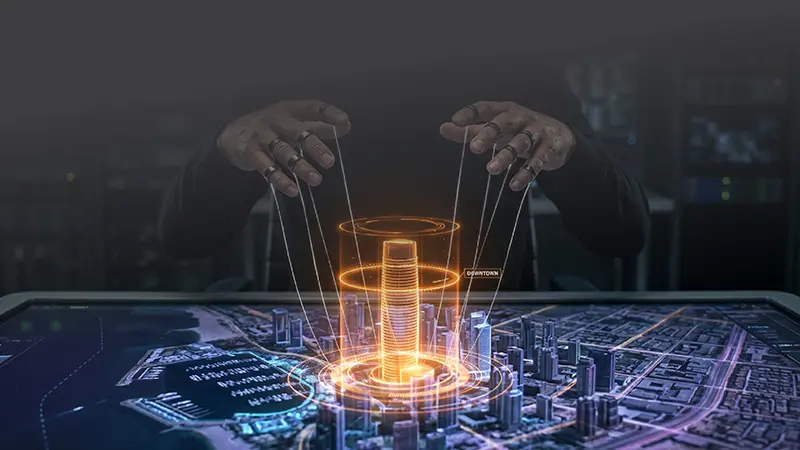
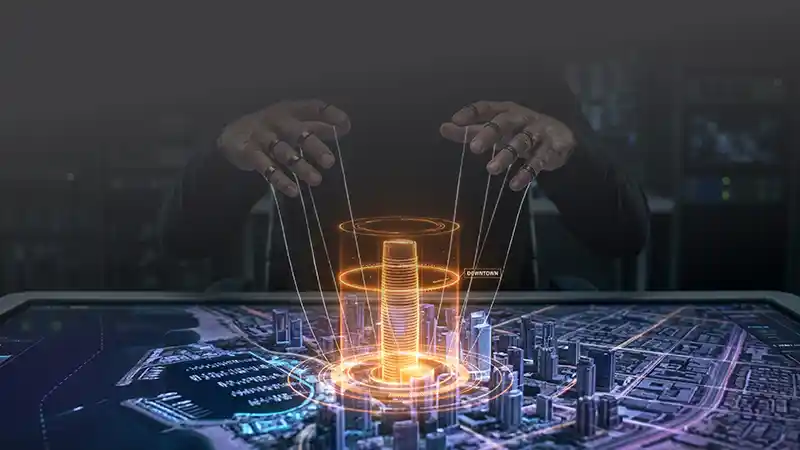
Critical CSS inlined, FA subset local file (1.5KB vs 18.3KB), styles.css async load, hero decoding=async

diff --git a/index.html b/index.html
@@ -5,26 +5,71 @@
     <meta name="viewport" content="width=device-width, initial-scale=1.0">
     <title>كورس المونتاج العقاري | أكاديمية مراسم</title>
     <meta name="description" content="تعلم فن إنتاج الفيديوهات العقارية الاحترافية من الصفر حتى الاحتراف مع أكاديمية مراسم. كورس شامل في المونتاج العقاري باستخدام After Effects و Premiere Pro.">
-    <!-- DNS Prefetch & Preconnect for external resources -->
+    <!-- Preconnect for font origins -->
     <link rel="preconnect" href="https://fonts.googleapis.com">
     <link rel="preconnect" href="https://fonts.gstatic.com" crossorigin>
-    <link rel="preconnect" href="https://cdnjs.cloudflare.com" crossorigin>
     <link rel="dns-prefetch" href="https://connect.facebook.net">
     <link rel="dns-prefetch" href="https://player.mediadelivery.net">
-    
-    <!-- Cairo Font: async load to avoid render-blocking -->
+    <link rel="dns-prefetch" href="https://cdnjs.cloudflare.com">
+
+    <!-- Preload hero images for LCP -->
+    <link rel="preload" as="image" href="assets/hero-bg.webp" type="image/webp" media="(min-width: 768px)" fetchpriority="high">
+    <link rel="preload" as="image" href="assets/mobile.webp" type="image/webp" media="(max-width: 767px)" fetchpriority="high">
+
+    <!-- Critical CSS: inlined to eliminate render-blocking -->
+    <style>
+    :root{--black-royal:#0a0a0a;--black-rich:#111111;--black-soft:#1a1a1a;--charcoal:#2a2a2a;--charcoal-light:#3a3a3a;--gray-dark:#4a4a4a;--gray:#6a6a6a;--gray-light:#8a8a8a;--gold:#c9a227;--gold-light:#dbb84d;--gold-dark:#a68520;--white:#ffffff;--white-off:#f5f5f5;--danger:#8b0000;--whatsapp:#25d366;--gradient-gold:linear-gradient(135deg,var(--gold) 0%,var(--gold-light) 50%,var(--gold) 100%);--gradient-dark:linear-gradient(180deg,var(--black-royal) 0%,var(--black-rich) 100%);--shadow-sm:0 2px 10px rgba(0,0,0,.3);--shadow-md:0 8px 30px rgba(0,0,0,.4);--shadow-lg:0 20px 60px rgba(0,0,0,.5);--shadow-gold:0 0 40px rgba(201,162,39,.3)}
+    *{margin:0;padding:0;box-sizing:border-box}html{scroll-behavior:smooth}
+    body{font-family:'Cairo',sans-serif;background:var(--black-royal);color:var(--white);line-height:1.8;overflow-x:hidden}
+    .container{max-width:1200px;margin:0 auto;padding:0 24px}
+    .whatsapp-float{position:fixed;bottom:30px;left:30px;background:var(--whatsapp);color:#fff;width:60px;height:60px;border-radius:50%;display:flex;align-items:center;justify-content:center;font-size:28px;box-shadow:0 4px 20px rgba(37,211,102,.4);z-index:1000;text-decoration:none;transition:all .3s ease}
+    .whatsapp-float:hover{transform:scale(1.1);box-shadow:0 6px 30px rgba(37,211,102,.6);width:auto;padding:0 20px;border-radius:30px}
+    .whatsapp-float .whatsapp-text{display:none;margin-right:10px;font-size:14px;font-weight:600}.whatsapp-float:hover .whatsapp-text{display:block}
+    .seats-badge{position:fixed;top:20px;left:20px;background:var(--danger);color:#fff;padding:10px 20px;border-radius:8px;display:flex;align-items:center;gap:10px;font-size:13px;font-weight:600;z-index:1000;border:1px solid rgba(255,255,255,.1)}
+    .seats-badge .pulse-ring{position:absolute;inset:0;border-radius:8px;border:2px solid var(--danger);animation:pulse-ring 2s infinite}
+    @keyframes pulse-ring{0%{transform:scale(1);opacity:1}100%{transform:scale(1.2);opacity:0}}
+    .hero{min-height:100vh;position:relative;display:flex;align-items:center;justify-content:center;text-align:center;padding:120px 20px;overflow:hidden}
+    .hero-bg{position:absolute;inset:0;overflow:hidden;filter:brightness(.5)}
+    .hero-overlay{position:absolute;inset:0;background:linear-gradient(180deg,rgba(10,10,10,.65) 0%,rgba(10,10,10,.5) 50%,rgba(10,10,10,.75) 100%)}
+    .hero-particles{position:absolute;inset:0;background-image:radial-gradient(circle at 20% 80%,rgba(201,162,39,.03) 0%,transparent 50%),radial-gradient(circle at 80% 20%,rgba(201,162,39,.03) 0%,transparent 50%)}
+    .hero-content{position:relative;z-index:2;max-width:800px}
+    .badge-limited{display:inline-flex;align-items:center;gap:10px;background:rgba(139,0,0,.3);border:1px solid var(--danger);color:#ff6b6b;padding:10px 24px;border-radius:50px;font-size:13px;font-weight:600;margin-bottom:30px;letter-spacing:.5px}
+    .badge-dot{width:8px;height:8px;background:#ff6b6b;border-radius:50%;animation:blink 1s infinite}
+    @keyframes blink{0%,100%{opacity:1}50%{opacity:.3}}
+    .hero h1{font-size:clamp(2.5rem,7vw,4.5rem);font-weight:900;line-height:1.4;margin-bottom:24px;padding-bottom:10px}
+    .hero h1 .line{display:block}.hero h1 .highlight{background:var(--gradient-gold);-webkit-background-clip:text;-webkit-text-fill-color:transparent;background-clip:text}
+    .hero-subtitle{font-size:1.2rem;color:var(--gray-light);margin-bottom:40px;font-weight:300;max-width:550px;margin-left:auto;margin-right:auto}
+    .hero-cta{margin-bottom:30px}
+    .btn{display:inline-flex;align-items:center;justify-content:center;gap:12px;padding:16px 40px;border-radius:8px;font-size:1rem;font-weight:700;text-decoration:none;transition:all .4s ease;border:none;cursor:pointer;font-family:inherit;position:relative;overflow:hidden}
+    .btn-gold{background:var(--gradient-gold);color:var(--black-royal)}
+    .btn-gold .btn-content{position:relative;z-index:1;display:flex;align-items:center;gap:10px}
+    .btn-gold .btn-shine{position:absolute;top:0;left:-100%;width:100%;height:100%;background:linear-gradient(90deg,transparent,rgba(255,255,255,.3),transparent);transition:left .6s ease}
+    .btn-gold:hover .btn-shine{left:100%}.btn-gold:hover{transform:translateY(-2px);box-shadow:var(--shadow-gold)}
+    .btn-large{padding:18px 50px;font-size:1.1rem}
+    .scroll-indicator{position:absolute;bottom:40px;left:50%;transform:translateX(-50%);display:flex;flex-direction:column;align-items:center;gap:10px;color:var(--gray);font-size:12px}
+    .mouse{width:24px;height:40px;border:2px solid var(--gray);border-radius:12px;position:relative}
+    .wheel{width:4px;height:8px;background:var(--gold);border-radius:2px;position:absolute;top:8px;left:50%;transform:translateX(-50%);animation:scroll-wheel 2s infinite}
+    @keyframes scroll-wheel{0%,100%{opacity:1;top:8px}50%{opacity:.3;top:20px}}
+    .hero-features{display:flex;flex-wrap:wrap;justify-content:center;gap:12px;margin-bottom:32px;max-width:700px;margin-left:auto;margin-right:auto}
+    .hero-feature{display:flex;align-items:center;gap:10px;padding:12px 20px;background:rgba(255,255,255,.12);border:1px solid rgba(255,255,255,.35);border-radius:50px;color:#fff;font-size:.95rem;font-weight:600;transition:all .3s ease;backdrop-filter:blur(4px)}
+    .hero-feature:hover{background:rgba(255,255,255,.22);transform:translateY(-3px);border-color:rgba(255,255,255,.6)}
+    .hero-feature i{color:var(--gold);font-size:1.1rem}
+    .reveal-up,.reveal-left,.reveal-right{opacity:0;transition:all .8s cubic-bezier(.4,0,.2,1)}
+    .reveal-up{transform:translateY(40px)}.reveal-left{transform:translateX(40px)}.reveal-right{transform:translateX(-40px)}
+    .reveal-up.visible,.reveal-left.visible,.reveal-right.visible{opacity:1;transform:translate(0)}
+    @media(max-width:768px){.hero{padding:100px 20px 80px}.hero-features{gap:10px}.hero-feature{padding:10px 16px;font-size:.85rem}.whatsapp-float{bottom:20px;left:15px;width:50px;height:50px;font-size:24px}.seats-badge{font-size:11px;padding:8px 14px}}
+    </style>
+
+    <!-- Font Awesome Subset (local, 31 icons only — ~1.5KB vs 18.3KB CDN) -->
+    <link rel="stylesheet" href="fa-subset.css">
+
+    <!-- Cairo Font: async to avoid render-blocking -->
     <link href="https://fonts.googleapis.com/css2?family=Cairo:wght@400;600;700;800&display=swap" rel="stylesheet" media="print" onload="this.media='all'">
     <noscript><link href="https://fonts.googleapis.com/css2?family=Cairo:wght@400;600;700;800&display=swap" rel="stylesheet"></noscript>
-    
-    <!-- Font Awesome: async load to avoid render-blocking -->
-    <link rel="stylesheet" href="https://cdnjs.cloudflare.com/ajax/libs/font-awesome/6.5.1/css/all.min.css" media="print" onload="this.media='all'">
-    <noscript><link rel="stylesheet" href="https://cdnjs.cloudflare.com/ajax/libs/font-awesome/6.5.1/css/all.min.css"></noscript>
-    
-    <link rel="stylesheet" href="styles.css">
-    
-    <!-- Preload hero image for LCP -->
-    <link rel="preload" as="image" href="assets/hero-bg.webp" type="image/webp" media="(min-width: 768px)">
-    <link rel="preload" as="image" href="assets/mobile.webp" type="image/webp" media="(max-width: 767px)">
+
+    <!-- styles.css: async load (non-blocking) -->
+    <link rel="preload" href="styles.css" as="style" onload="this.onload=null;this.rel='stylesheet'">
+    <noscript><link rel="stylesheet" href="styles.css"></noscript>
 </head>
 <body>
 
@@ -47,7 +92,7 @@
             <picture>
                 <source media="(max-width: 767px)" srcset="assets/mobile.webp" type="image/webp">
                 <source srcset="assets/hero-bg.webp" type="image/webp">
-                <img src="assets/hero-bg.jpg" alt="" fetchpriority="high" decoding="sync" aria-hidden="true" style="width:100%;height:100%;object-fit:cover;display:block;">
+                <img src="assets/hero-bg.jpg" alt="" fetchpriority="high" decoding="async" aria-hidden="true" style="width:100%;height:100%;object-fit:cover;display:block;">
             </picture>
         </div>
         <div class="hero-overlay"></div>

diff --git a/fa-subset.css b/fa-subset.css
@@ -1,0 +1,37 @@
+/* Font Awesome 6.5.1 Subset — only icons used on this page */
+@font-face{font-family:"Font Awesome 6 Free";font-style:normal;font-weight:900;font-display:swap;src:url("https://cdnjs.cloudflare.com/ajax/libs/font-awesome/6.5.1/webfonts/fa-solid-900.woff2") format("woff2")}
+@font-face{font-family:"Font Awesome 6 Brands";font-style:normal;font-weight:400;font-display:swap;src:url("https://cdnjs.cloudflare.com/ajax/libs/font-awesome/6.5.1/webfonts/fa-brands-400.woff2") format("woff2")}
+.fas,.fab,.fa{-moz-osx-font-smoothing:grayscale;-webkit-font-smoothing:antialiased;display:inline-block;font-style:normal;font-variant:normal;line-height:1;text-rendering:auto}
+.fas{font-family:"Font Awesome 6 Free";font-weight:900}
+.fab{font-family:"Font Awesome 6 Brands";font-weight:400}
+.fa-fire::before{content:"\f06d"}
+.fa-graduation-cap::before{content:"\f19d"}
+.fa-tools::before{content:"\f7d9"}
+.fa-briefcase::before{content:"\f0b1"}
+.fa-bullhorn::before{content:"\f0a1"}
+.fa-user-tie::before{content:"\f508"}
+.fa-handshake::before{content:"\f2b5"}
+.fa-clock::before{content:"\f017"}
+.fa-globe-africa::before{content:"\f57c"}
+.fa-external-link-alt::before{content:"\f35d"}
+.fa-route::before{content:"\f4d7"}
+.fa-coins::before{content:"\f51e"}
+.fa-user-graduate::before{content:"\f501"}
+.fa-gift::before{content:"\f06b"}
+.fa-lightbulb::before{content:"\f0eb"}
+.fa-info-circle::before{content:"\f05a"}
+.fa-video::before{content:"\f03d"}
+.fa-building::before{content:"\f1ad"}
+.fa-rocket::before{content:"\f135"}
+.fa-laptop::before{content:"\f109"}
+.fa-microchip::before{content:"\f2db"}
+.fa-memory::before{content:"\f538"}
+.fa-desktop::before{content:"\f108"}
+.fa-users::before{content:"\f0c0"}
+.fa-calendar-alt::before{content:"\f073"}
+.fa-tag::before{content:"\f02b"}
+.fa-credit-card::before{content:"\f09d"}
+.fa-exclamation-triangle::before{content:"\f071"}
+.fa-phone-alt::before{content:"\f879"}
+.fa-whatsapp::before{content:"\f232"}
+.fa-adobe::before{content:"\f778"}
